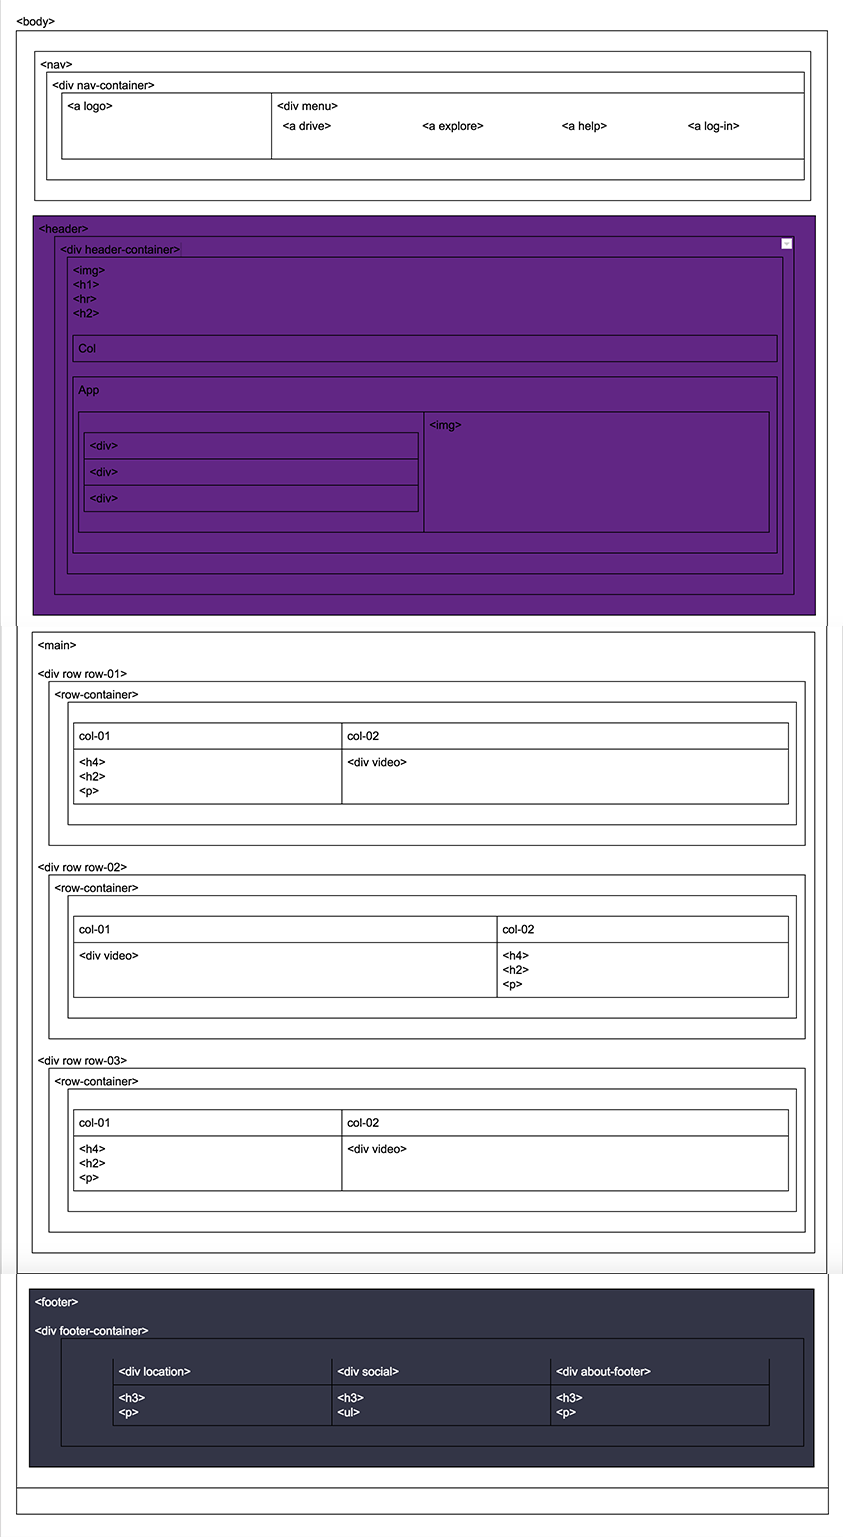
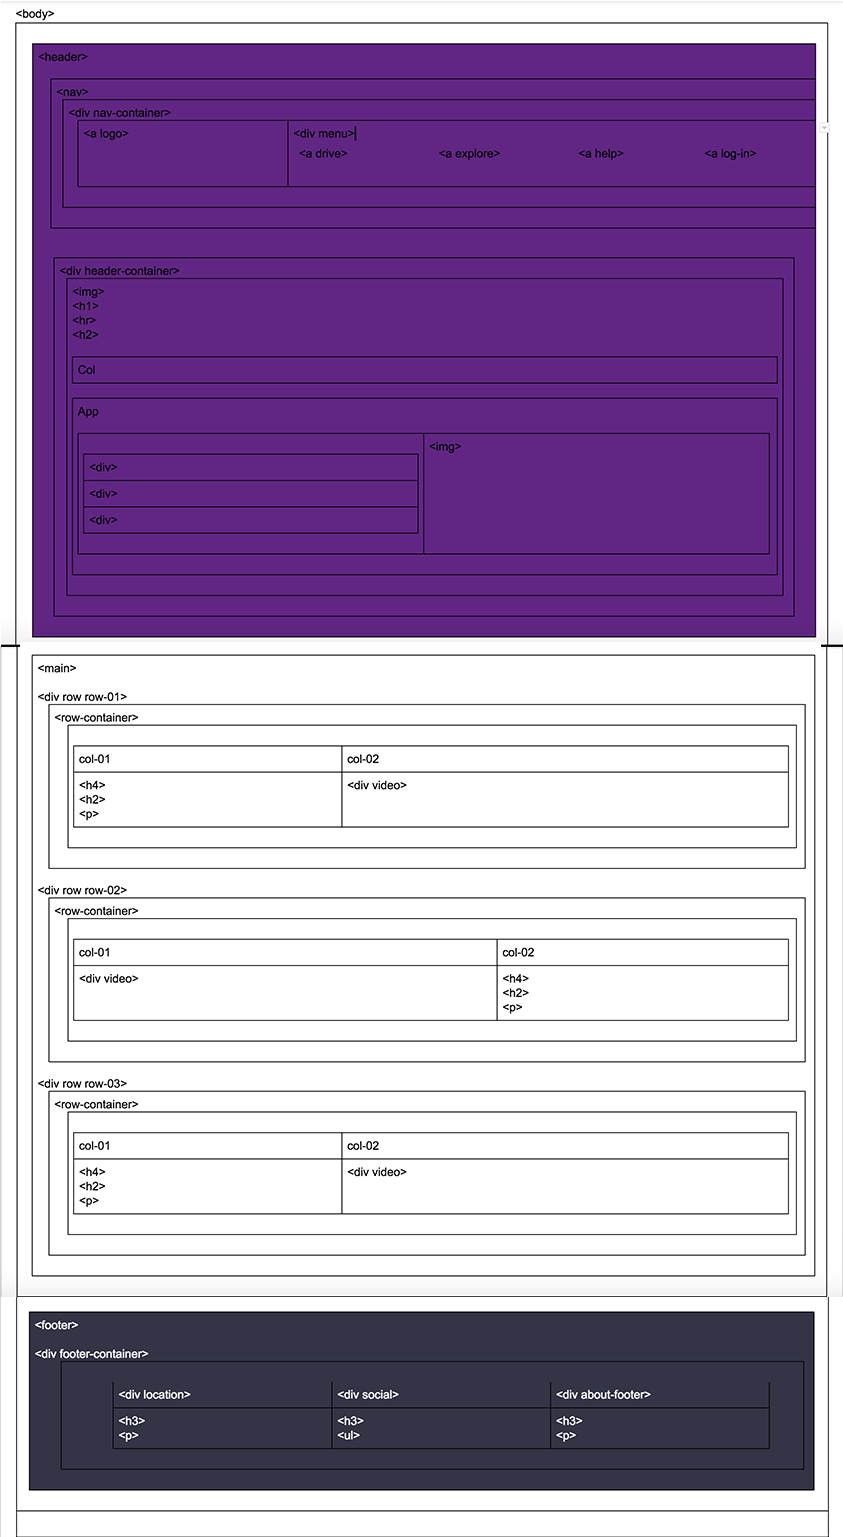
Actualizacion de imagen de Readme y algunos estilos en el footer, texto/placeholder en descripcion de video y degradado de imagen del hero

Changed region(s): [[0.0, 0.0, 0.987, 1.0]]

diff --git a/index.html b/index.html
@@ -22,6 +22,7 @@
 				</div>
 			</div>
 		</nav>
+		<div class="mask"></div>
 		<div class="img-background"></div>
 		<div class="gradient">
 			<div class="intro">
@@ -77,16 +78,16 @@
 			</div>
 			<div class="col-main-01">
 				<p class="sub">Watch</p>
-				<h3>DRIVE TOWARD WHAT MATTERS</h3>
-				<p>Wherever you’re going, we’ll help you get there — and will be here as long as you need us.</p>
+				<h3>RIDING WEST</h3>
+				<p>Whether you’re riding west on the Oregon Trail, or heading out for all-you-can-eat pancakes, It Matters How You Get There</p>
 			</div>
 		</div>
 		<!-- Fila 03 -->
 		<div class="row-main">
 			<div class="col-main-01">
 				<p class="sub"><a href="#">Learn more</a></p>
-				<h3>DRIVE TOWARD WHAT MATTERS</h3>
-				<p>Wherever you’re going, we’ll help you get there — and will be here as long as you need us.</p>
+				<h3>ROUND UP & DONATE</h3>
+				<p>Opt in and we’ll round up each fare to the nearest dollar, then donate the difference to a charitable cause of your choice.</p>
 			</div>
 			<div class="col-main-02">
 				<iframe width="100%" height="100%" src="https://www.youtube.com/embed/v8nyGzOLsdw?rel=0&amp;controls=0&amp;showinfo=0" frameborder="0" allow="autoplay; encrypted-media" allowfullscreen></iframe>
@@ -101,35 +102,16 @@
 						<h4>LOG IN</h4>
 					</li>
 					<li>
-						<p>Help</p>
+						<a href="#">Help</a>
 					</li>
 					<li>
-						<p>Cities</p>
+						<a href="#">Cities</a>
 					</li>
 					<li>
-						<p>Airports</p>
+						<a href="#">Airports</a>
 					</li>
 					<li>
-						<p>Fare Estimate</p>
-					</li>
-				</ul>
-			</div>
-			<div class="col">
-				<ul>
-					<li>
-						<h4>PARTNER</h4>
-					</li>
-					<li>
-						<p>Partnerships</p>
-					</li>
-					<li>
-						<p>Business</p>
-					</li>
-					<li>
-						<p>Developers</p>
-					</li>
-					<li>
-						<p>Events</p>
+						<a href="#">Fare Estimate</a>
 					</li>
 				</ul>
 			</div>
@@ -139,28 +121,47 @@
 						<h4>PARTNER</h4>
 					</li>
 					<li>
-						<p>Partnerships</p>
+						<a href="#">Partnerships</a>
 					</li>
 					<li>
-						<p>Business</p>
+						<a href="#">Business</a>
 					</li>
 					<li>
-						<p>Developers</p>
+						<a href="#">Developers</a>
 					</li>
 					<li>
-						<p>Events</p>
+						<a href="#">Events</a>
+					</li>
+				</ul>
+			</div>
+			<div class="col">
+				<ul>
+					<li>
+						<h4>PARTNER</h4>
+					</li>
+					<li>
+						<a href="#">Partnerships</a>
+					</li>
+					<li>
+						<a href="#">Business</a>
+					</li>
+					<li>
+						<a href="#">Developers</a>
+					</li>
+					<li>
+						<a href="#">Events</a>
 					</li>
 				</ul>
 			</div>
 			<div class="col icons">
 				<div class="icon-img">
-					<img src="assets/images/apple-store.svg">
+					<a href="#"><img src="assets/images/apple-store.svg"></a>
 				</div>
 				<div class="icon-img">
-					<img src="assets/images/google-play.png">
+					<a href="#"><img src="assets/images/google-play.png"></a>
 				</div>
 				<div class="icon-img">
-					<img src="assets/images/microsoft.png">
+					<a href="#"><img src="assets/images/microsoft.png"></a>
 				</div>
 			</div>
 			

diff --git a/css/main.css b/css/main.css
@@ -4,6 +4,10 @@ body {
  	margin: 0;
  }
 
+ /*a {
+ 	cursor: pointer;
+ }*/
+
 /* HEADER */ 
 header {
     height: 1245px;
@@ -19,8 +23,17 @@ header {
     width: 100%;
  }
 
+ header div.mask {
+  height: 7em;
+    width: 100%;
+    background: linear-gradient(to bottom,transparent,#651c7e);
+    position: absolute;
+    top: 62vh;
+    z-index: 6;
+ }
+
  header div.gradient {
- 	background-image: linear-gradient(to bottom,#601b7b,#2e1e67);
+ 	background-image: linear-gradient(to bottom,#651c7e,#2e1e67);
  	height: 38em;
  	position: relative;
     top: -10em;
@@ -57,7 +70,7 @@ nav.navbar div.nav-container a.brand {
 
 a.menu-link {
     color: white;
-    cursor: pointer;
+    /*cursor: pointer;*/
     font-size: 1.2em;
     margin-right: 0.2em;
     padding: 1em;
@@ -66,10 +79,6 @@ a.menu-link {
 
 a.menu-link:hover {
     color: #ff02c0;
-}
-
-a.menu-link:active {
-    background-color: #18bc9c;
 }
 
 a.border-buttom {
@@ -124,6 +133,10 @@ input[type="text"] {
  input::placeholder {
     color: #6b757c;
     font-size: 1.3em;
+ }
+
+ input:focus {
+  outline: none;
  }
 
  button {
@@ -205,6 +218,11 @@ input[type="text"] {
  	color: #ff02c0;
  }
 
+ p.sub a:hover {
+  text-decoration: underline;
+  color: #de03a8;
+ }
+
  main .row-main .col-main-02 {
  	width: 65%;
  	display: inline-block;
@@ -246,14 +264,22 @@ li p {
   	width: 40%;
   }
 
+  .icon-img img:hover {
+  	opacity: 0.5;
+  }
+
   footer .social {
   	display: block;
   	text-align: center;
   }
 
-  footer .social ul li a{
+  footer .social ul li a {
   	color: white;
   	text-decoration: none;
+  }
+
+  footer .social li:hover {
+    opacity: 0.5;
   }
 
   footer .social ul li{
@@ -266,12 +292,28 @@ li p {
     font-size: 1.2em;
     background-color: transparent;
     margin: 0 1em;
+    cursor: pointer;
   }
 
   footer .col ul li h4{
   	color: white;
   	text-decoration: none;
   	margin: 0;
+  }
+
+  .col ul li {
+    margin: 1.5em 0;
+  }
+
+
+  .col ul li a {
+  	color: white;
+  	text-decoration: none;
+  }
+
+  .col ul li a:hover {
+  	color: #ff02c0;
+  	text-decoration: underline;
   }
 
   hr {
